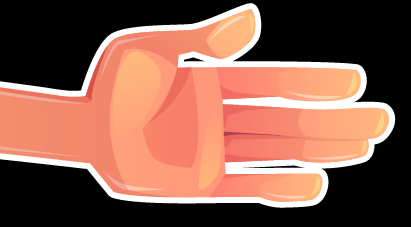
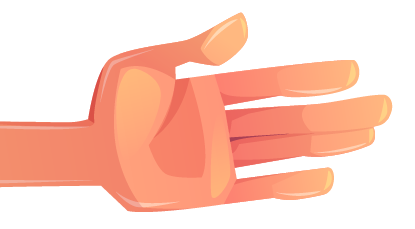
Added main features Added checking for winners Added random hand generation for opponent Changed current and next hand handling in the game.entity objects Added round start function

diff --git a/game.js b/game.js
@@ -7,45 +7,109 @@ const displays = {
     round : document.getElementById('round'),
     score : document.getElementById('score')
 }
+const assets = {
+    player : {
+        paper : 'assets/paper.png',
+        rock : 'assets/rock.png',
+        scissors : 'assets/scissors.png'
+    },
+    opponent : {
+        paper : 'assets/paper2.png',
+        rock : 'assets/rock2.png',
+        scissors : 'assets/scissors2.png'
+    }
+
+}
 const game = {
     round : 0,
     score : 0,
-    player : {
-        hand : document.getElementById('player-hand'),
-        roundsWon : 0
-    },
-    opponent : {
-        hand : document.getElementById('opponent-hand'),
-        roundsWon : 0
-    }
+    hands : ['rock', 'paper', 'scissors'],
+    counters : ['paper', 'scissors', 'rock'],
+    defaultHand : "rock",
+}
+game.player = {
+    currentHand : game.defaultHand,
+    nextHand : game.defaultHand,
+    handElement : document.getElementById('player-hand'),
+    roundsWon : 0
+};
+game.opponent = {
+    currentHand : game.defaultHand,
+    nextHand : game.defaultHand,
+    handElement : document.getElementById('opponent-hand'),
+    roundsWon : 0
+};
+async function startRound(){
+    game.round++;
+    displays.round.innerHTML = game.round;
+    await shuffleHands();
+    checkHands();
 }
 function delay(ms) {
     return new Promise(resolve => setTimeout(resolve, ms));
 }
 async function shuffleHands(){
-    const rotationDegrees = '-20';
-    const defaultDegrees = '0';
-    const opponentScale = 'scaleX(-1)';
+    const rotationDegrees = -20;
+    const defaultDegrees = 0;
     var shuffleCount = 3;
     const shuffleDelay = 300;
+    setHandTo('player', game.defaultHand);
+    setHandTo('opponent', game.defaultHand);
     shuffleMovement();
     async function shuffleMovement(){
         if(shuffleCount > 0){
-            game.player.hand.style.transform = `rotate(${rotationDegrees}deg)`;
-            game.opponent.hand.style.transform = `${opponentScale} rotate(${rotationDegrees}deg)`;
+            game.player.handElement.style.transform = `rotate(${rotationDegrees}deg)`;
+            game.opponent.handElement.style.transform = `rotate(${rotationDegrees*-1}deg)`;
             await delay(shuffleDelay);
-            game.player.hand.style.transform = `rotate(${defaultDegrees}deg)`;
-            game.opponent.hand.style.transform = `${opponentScale} rotate(${defaultDegrees}deg)`;
+            game.player.handElement.style.transform = `rotate(${defaultDegrees}deg)`;
+            game.opponent.handElement.style.transform = `rotate(${defaultDegrees*-1}deg)`;
             await delay(shuffleDelay);
             shuffleCount--;
             console.log(shuffleCount);
             shuffleMovement();
+        }else{
+            generateOpponentHand();
         }
     }
 }
-
-async function testing(ms){
-    await delay(ms);
-    console.log('testing');
-    testing(ms);
+function checkHands(){
+    const playerHandIndex = findHandIndexOf(game.player.currentHand);
+    const opponentHandIndex = findHandIndexOf(game.opponent.currentHand);
+    const playerCounterIndex = findCounterIndexOf(game.player.currentHand);
+    const opponentCounterIndex = findCounterIndexOf(game.opponent.currentHand);
+    if(playerHandIndex == opponentCounterIndex){
+        console.log('opponent wins');
+    }
+    if(opponentHandIndex == playerCounterIndex){
+        console.log('player wins');
+    }
+}
+function findHandIndexOf(value){
+    return game.hands.indexOf(value);
+}
+function findCounterIndexOf(value){
+    return game.counters.indexOf(value);
+}
+function generateOpponentHand(){
+    game.opponent.nextHand = game.hands[Math.floor(Math.random() * game.hands.length)];
+}
+function setHandTo(entity, hand){
+    game[entity].handElement.src = assets[entity][hand];
+    game[entity].currentHand = hand;
+}
+window.onload = function(){
+    setHandTo('player', game.defaultHand);
+    setHandTo('opponent', game.defaultHand);
+    buttons.paper.onclick = function(){
+        setHandTo('player', 'paper');
+    }
+    buttons.rock.onclick = function(){
+        setHandTo('player', 'rock');
+    }
+    buttons.scissors.onclick = function(){
+        setHandTo('player', 'scissors');
+    }
+}
+function testing(){
+    console.log(game.hands);
 }

diff --git a/index.html b/index.html
@@ -9,16 +9,16 @@
   <body>
     <div class="top">
         <p>ROUND</p>
-        <p id="round">1</p>
+        <p id="round">0</p>
         <p id="score"></p>
     </div>
     <div class="hands">
-      <img src="assets/paper.png" alt="" id="player-hand" />
-      <img src="assets/rock.png" alt="" id="opponent-hand" />
+      <img src="assets/rock.png" alt="" id="player-hand" />
+      <img src="assets/rock2.png" alt="" id="opponent-hand" />
     </div>
     <div class="controls">
-      <div id="rock"><img src="assets/scissors.png" alt="" srcset=""></div>
-      <div id="paper"><img src="assets/scissors.png" alt="" srcset=""></div>
+      <div id="rock"><img src="assets/rock.png" alt="" srcset=""></div>
+      <div id="paper"><img src="assets/paper.png" alt="" srcset=""></div>
       <div id="scissors"><img src="assets/scissors.png" alt="" srcset=""></div>
     </div>
     <script src="game.js"></script>

diff --git a/style.css b/style.css
@@ -7,13 +7,16 @@ body{
     display: flex;
     flex-direction: column;
     background-color: aquamarine;
+    width: 100vw;
+    overflow-x: hidden;
 }
 .top{
     background-color: burlywood;
     font-family: 'Courier New', Courier, monospace;
     font-size: 40px;
     width: 20%;
-    margin: auto;
+    margin: 0 auto auto auto;
+    text-align: center;
 }
 .top p{
     margin: 0;
@@ -31,10 +34,11 @@ body{
 }
 .hands #player-hand{
     left: -25px;
+    transform-origin: 0% 100%;
 }
 .hands #opponent-hand{
     right: -25px;
-    transform: scaleX(-1);
+    transform-origin: right;
 }
 .controls{
     background-color: pink;
